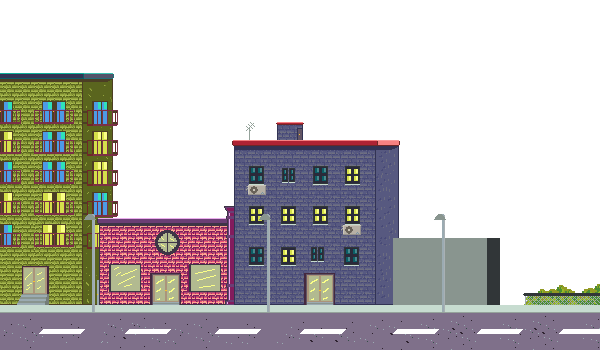
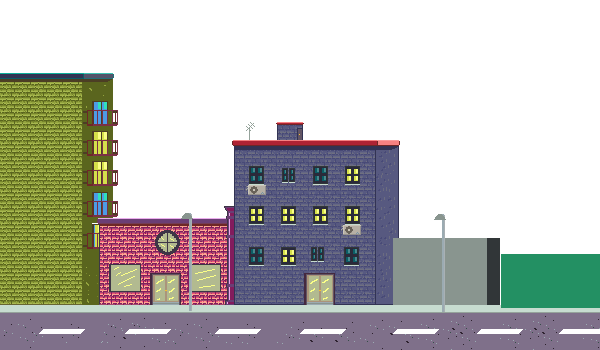
feat: create AboutPage component; add main structure and styling

Changed region(s): [[0.0, 0.2857, 0.39, 0.8857], [0.81, 0.7143, 1.0, 0.8857], [0.42, 0.6, 0.45, 0.8857]]

diff --git a/app/components/Engine.tsx b/app/components/Engine.tsx
@@ -1,5 +1,11 @@
 "use client";
-import { Application, AnimatedSprite, Assets, TextureStyle, Sprite } from "pixi.js";
+import {
+  Application,
+  AnimatedSprite,
+  Assets,
+  TextureStyle,
+  Sprite,
+} from "pixi.js";
 import Matter from "matter-js";
 import { useEffect, useRef } from "react";
 import { s } from "framer-motion/client";
@@ -35,14 +41,6 @@ export default function Engine() {
 
       container!.appendChild(app.canvas);
 
-      function randomRange(min: number, max: number) {
-        return Math.random() * (max - min) + min;
-      }
-
-      function randomInt(min: number, max: number) {
-        return Math.floor(randomRange(min, max + 1));
-      }
-
       //
       // ░░   SPRITE SETUP   ░░
       //
@@ -52,7 +50,7 @@ export default function Engine() {
       //
       const carroSheet = await Assets.load("/assets/carro.json");
 
-      const carroColors = ["car_yellow", "car_blue", "car_magenta"];
+      const carroColors = ["car_yellow", "car_blue", "car_magenta", "car_red"];
 
       let activeCars: CarroEntity[] = [];
 
@@ -90,7 +88,7 @@ export default function Engine() {
           {
             restitution: 0.1,
             friction: 0.4,
-            collisionFilter: {group: -1},
+            collisionFilter: { group: -1 },
           }
         );
 
@@ -143,36 +141,26 @@ export default function Engine() {
         await Assets.load("/assets/street_lights.png")
       );
 
-      const streetLightSprite3 = new Sprite(
-        await Assets.load("/assets/street_lights.png")
-      );
-
       streetLightSprite1.anchor.set(0.5, 1);
-      streetLightSprite1.x = container!.clientWidth * 0.142;
-      streetLightSprite1.y = container!.clientHeight * 1.013;
+      streetLightSprite1.x = container!.clientWidth * 0.303;
+      streetLightSprite1.y = container!.clientHeight * 1.009;
       streetLightSprite1.scale.set(container!.clientWidth / 600);
       streetLightSprite1.alpha = 0.4;
       streetLightSprite1.zIndex = 10;
 
       streetLightSprite2.anchor.set(0.5, 1);
-      streetLightSprite2.x = container!.clientWidth * 0.434;
+      streetLightSprite2.x = container!.clientWidth * 0.725;
       streetLightSprite2.y = container!.clientHeight * 1.013;
       streetLightSprite2.scale.set(container!.clientWidth / 600);
       streetLightSprite2.alpha = 0.4;
       streetLightSprite2.zIndex = 10;
 
-      streetLightSprite3.anchor.set(0.5, 1);
-      streetLightSprite3.x = container!.clientWidth * 0.725;
-      streetLightSprite3.y = container!.clientHeight * 1.013;
-      streetLightSprite3.scale.set(container!.clientWidth / 600);
-      streetLightSprite3.alpha = 0.4;
-      streetLightSprite3.zIndex = 10;
       //
       // ░░   MATERIAL ENGINE   ░░
       //
 
       const engine = Matter.Engine.create();
-      engine.gravity.y = 1.2;
+      engine.gravity.y = 0.4;
       let groundWidth = container!.clientWidth;
 
       //
@@ -193,14 +181,11 @@ export default function Engine() {
       // ░░   RESPONSIVE LOGIC   ░░
       //
 
-      const carrorelX = 0.12;
-      const carrorelY = 0.8;
-
       const neonRelX = 0.4;
       const neonRelY = 0.3;
 
-      const dishRelX = 0.45;
-      const dishRelY = 0.3;
+      const dishRelX = 0.63;
+      const dishRelY = 0.328;
 
       let lastCarroScale = 1;
 
@@ -208,25 +193,16 @@ export default function Engine() {
       window.addEventListener("resize", resizeSprite);
 
       function resizeSprite() {
+        // Update sprite values
         const carroScale = container!!.clientWidth / 1920;
         const neonScale = container!.clientWidth / 600;
         const dishScale = container!.clientWidth / 600;
-        const newGroundWidth = container!.clientWidth;
+        const lightScale = container!.clientWidth / 600;
 
-        const scaleRatio = carroScale / lastCarroScale;
-        lastCarroScale = carroScale;
-
-        const groundScaleX = newGroundWidth / groundWidth;
-        Matter.Body.scale(ground, groundScaleX, 1);
-        groundWidth = newGroundWidth;
-        spawnRandomCarro()
-        Matter.Body.setPosition(ground, {
-          x: newGroundWidth / 2,
-          y: container!.clientHeight- 50,
-        });
-        
         neonSprite.scale.set(neonScale);
         dishSprite.scale.set(dishScale);
+        streetLightSprite1.scale.set(lightScale);
+        streetLightSprite2.scale.set(lightScale);
 
         neonSprite.x = container!.clientWidth * neonRelX;
         neonSprite.y = container!.clientHeight * neonRelY;
@@ -234,10 +210,34 @@ export default function Engine() {
         dishSprite.x = container!.clientWidth * dishRelX;
         dishSprite.y = container!.clientHeight * dishRelY;
 
+        streetLightSprite1.x = container!.clientWidth * 0.303;
+        streetLightSprite1.y = container!.clientHeight * 1.009;
+
+        streetLightSprite2.x = container!.clientWidth * 0.725;
+        streetLightSprite2.y = container!.clientHeight * 1.013;
+
+        // Update ground
+
+        const newGroundWidth = container!.clientWidth;
+
+        const groundScaleX = newGroundWidth / groundWidth;
+        Matter.Body.scale(ground, groundScaleX, 1);
+        groundWidth = newGroundWidth;
+        
+        Matter.Body.setPosition(ground, {
+          x: newGroundWidth / 2,
+          y: container!.clientHeight - 50,
+        });
+
+        const scaleRatio = carroScale / lastCarroScale;
+        lastCarroScale = carroScale;
+
         activeCars.forEach((car) => {
           car.sprite.scale.set(carroScale);
           Matter.Body.scale(car.body, scaleRatio, scaleRatio);
         });
+
+        spawnRandomCarro();
       }
 
       //
@@ -343,17 +343,15 @@ export default function Engine() {
         }
       });
 
-      app.stage.addChild(dishSprite);
       app.stage.addChild(neonSprite);
+      app.stage.addChild(dishSprite);
+      app.stage.addChild(streetLightSprite1);
+      app.stage.addChild(streetLightSprite2);
       setInterval(() => {
         if (activeCars.length < 3) {
           spawnRandomCarro();
         }
       }, 4000);
-      app.stage.addChild(streetLightSprite1);
-      app.stage.addChild(streetLightSprite2);
-      app.stage.addChild(streetLightSprite3);
-
     })();
 
     return () => {

diff --git a/app/components/Scene.tsx b/app/components/Scene.tsx
@@ -4,6 +4,7 @@ import { motion, useMotionValue, useTransform } from "framer-motion";
 import { use, useEffect } from "react";
 import Image from "next/image";
 import Engine from "./Engine";
+import Link from "next/link";
 
 export default function Scene() {
   const x = useMotionValue(0);
@@ -58,23 +59,10 @@ export default function Scene() {
                 imageRendering: "pixelated",
               }}
             />
-            <Image
-              src="/assets/chat_bubbles/chat-about.png"
-              alt="neon gif"
-              width={30}
-              height={30}
-              className="absolute"
-              unoptimized
-              style={{
-                top: "55%",
-                left: "37%",
-                width: "5%", 
-                imageRendering: "pixelated",
-              }}
-            />
-          <div className="absolute inset-0 z-10 pointer-events-auto">
-            <Engine />
-          </div>
+
+            <div className="absolute inset-0 z-10 pointer-events-auto">
+              <Engine />
+            </div>
           </div>
         </div>
       </motion.div>

diff --git a/app/about/page.tsx b/app/about/page.tsx
@@ -1,0 +1,12 @@
+import React from "react";
+
+export default function AboutPage() {
+  return (
+    <main
+      className="min-h-screen bg-black text-white flex items-center
+  justify-center"
+    >
+      <h1 className="text-4xl font-bold">Story page</h1>
+    </main>
+  );
+}
